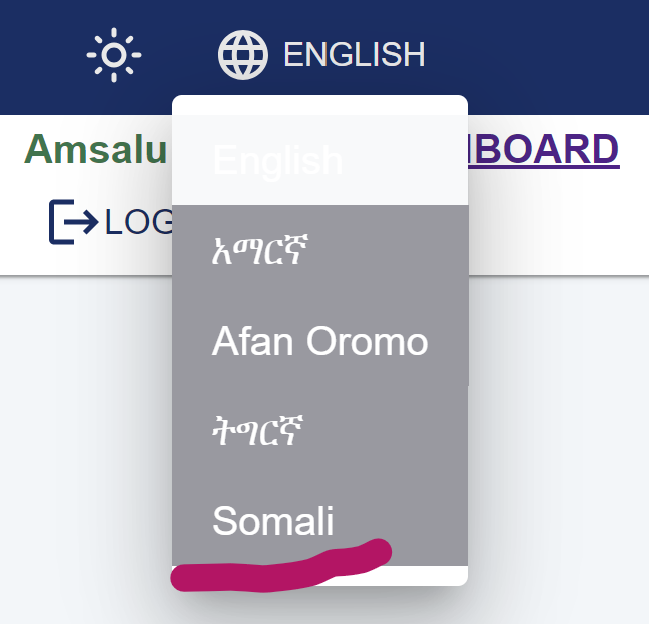
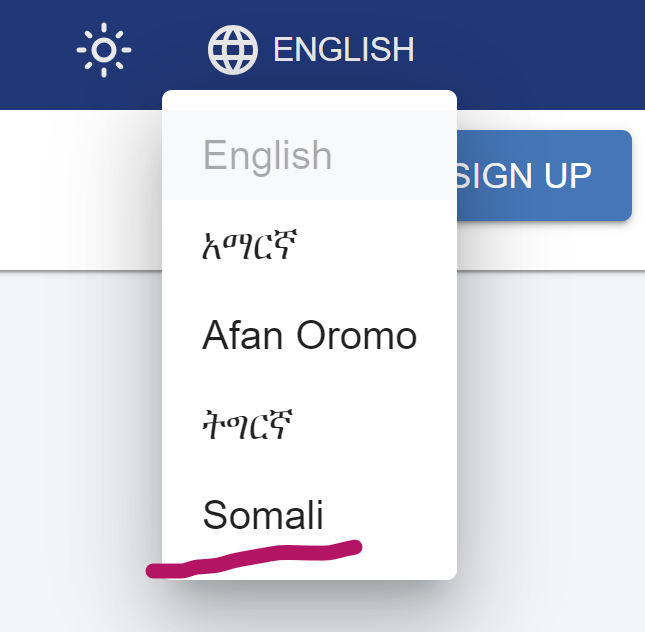
Footer information modified. Sponsor Information added.

diff --git a/src/partials/Footer.jsx b/src/partials/Footer.jsx
@@ -13,6 +13,8 @@ import LinkedInIcon from "@mui/icons-material/LinkedIn";
 import YouTubeIcon from "@mui/icons-material/YouTube";
 import LinkIcon from "@mui/icons-material/Link";
 import BusinessIcon from '@mui/icons-material/Business';
+import EULogo from './../images/sponsers_logo/European-Union_flag.png';
+import GIZLogo from './../images/sponsers_logo/giz-logo.gif'
 
 const Footer = () => {
   const theme = useTheme();
@@ -158,6 +160,52 @@ const Footer = () => {
             />
             {/* </Typography> */}
           </Box>
+
+          <Box
+            sx={{
+              // height:"50vh",
+              paddingRight: "25px",
+              marginRight: "20px",
+            }}
+          >
+              <Typography variant="h5" 
+              sx={{
+                  paddingTop: "15px",
+                  fontWeight: 500,
+                  color: colors.headerText[100]
+                }}
+                >
+                <a href="https://www.giz.de/en/html/index.html" 
+                target="_blank" rel="noreferrer" 
+                style={{ textDecoration:"none", color:colors.primary[200] }}>
+                  Developed by <strong>GIZ International Services</strong>
+                </a>
+              </Typography>
+              <a href="https://www.giz.de/en/html/index.html" 
+                target="_blank" rel="noreferrer" 
+                style={{ textDecoration:"none", color:colors.primary[200] }}
+                >
+                <img src={GIZLogo} alt="" />
+              </a>
+
+              <Typography variant="h5" 
+               sx={{
+                paddingTop: "15px",
+                fontWeight: 500,
+                color: colors.headerText[100]
+              }}
+              >
+                <a href="https://european-union.europa.eu/select-language?destination=/node/1" 
+                  target="_blank" rel="noreferrer" 
+                  style={{ textDecoration:"none", color:colors.primary[200] }}>
+                  Funded by the <strong>European Union</strong>
+                </a>
+              </Typography>
+              
+              <a href="https://european-union.europa.eu/select-language?destination=/node/1" target="_blank" rel="noreferrer">
+                <img src={EULogo} alt="" />
+              </a>
+          </Box>
         </Grid>
       </Grid>
 
@@ -166,8 +214,10 @@ const Footer = () => {
         <Box
           sx={{
             padding: "25px",
-            backgroundColor: colors.primary[100],
+            backgroundColor: colors.primary[200],
             width: "100%",
+            display:"flex",
+            justifyContent:"space-between"
           }}
         >
           <Typography variant="h6" sx={{ fontWeight: 600, color: "white" }}>

diff --git a/src/partials/LanguageButton.jsx b/src/partials/LanguageButton.jsx
@@ -115,7 +115,7 @@ export default function LanguageButton() {
                 <MenuList id="split-button-menu" autoFocusItem>
                   {appLanguages.map(({code, name}) => (
                     <MenuItem
-                     sx={{ color:colors.grey[100], backgroundColor:colors.grey[600] }}
+                    //  sx={{ color:colors.grey[100], backgroundColor:colors.grey[600] }}
                       key={code}
                       disabled={code === currentLanguageCode}
                       selected={code === currentLanguageCode}

diff --git a/src/partials/main-menu/Topbar.jsx b/src/partials/main-menu/Topbar.jsx
@@ -49,7 +49,7 @@ const Topbar = ({menuItems}) => {
       elevation={0} 
       position='relative'
       sx={{
-       backgroundColor:colors.primary[100], 
+       backgroundColor:colors.primary[200], 
        zIndex:2 }}>
           <Grid container>
             <Grid item xs={10}>
